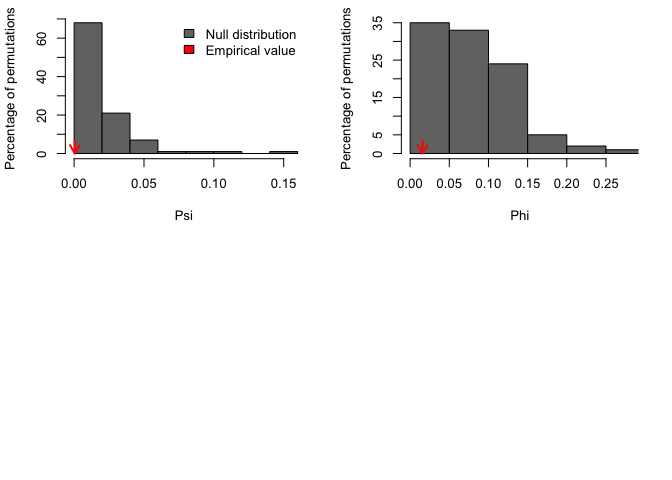
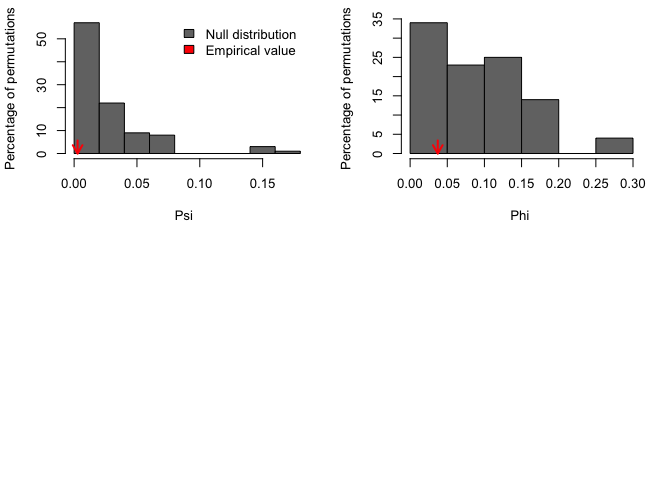
new commit

diff --git a/README.md b/README.md
@@ -9,7 +9,18 @@
 
 The goal of PCAtest is to evaluate the overall significance of a PCA, of
 each PC axis, and of the contributions of each observed variable to the
-significant axes based on permutation-based statistical tests.
+significant axes based on permutation-based statistical tests. PCAtest
+uses random permutations to build null distributions for several
+statistics of a PCAanalysis: Psi (Vieira 2012), Phi (Gleason and Staelin
+1975), the rank-of-roots (ter Braak 1988), the index of the loadings
+(Vieira 2012), and the correlations of the PC with the variables
+(Jackson 1991). Comparing these distributions with the observed values
+of the statistics, the function tests: (1) the hypothesis that there is
+more correlational structure among the observed variables than expected
+by random chance, (2) the statistical significance of each PC, and (3)
+the contribution of each observed variable to each significant PC. The
+function also calculates the sampling variance around mean observed
+statistics based on bootstrap replicates.
 
 ## Installation
 
@@ -36,8 +47,8 @@ result<-PCAtest(x, 100, 100, 0.05, corr=FALSE, plot=TRUE)
 #> 100 bootstrap replicates, 100 random permutations
 #> ========================================================
 #> 
-#> Empirical Psi = 5e-04, Max null Psi = 0.1572, Min null Psi = 0.0000, p-value = 0.85
-#> Empirical Phi = 0.0158, Max null Phi = 0.2804, Min null Phi = 1e-04, p-value = 0.85
+#> Empirical Psi = 0.0028, Max null Psi = 0.1748, Min null Psi = 0.0000, p-value = 0.7
+#> Empirical Phi = 0.0372, Max null Phi = 0.2956, Min null Phi = 9e-04, p-value = 0.7
 #> 
 #> PCA is not significant!
 ```
@@ -56,11 +67,11 @@ PCAout<-PCAtest(x, 100, 100, 0.05, corr=FALSE, plot=TRUE)
 #> 100 bootstrap replicates, 100 random permutations
 #> ========================================================
 #> 
-#> Empirical Psi = 2.0000, Max null Psi = 0.1617, Min null Psi = 0.0000, p-value = 0
-#> Empirical Phi = 1.0000, Max null Phi = 0.2843, Min null Phi = 3e-04, p-value = 0
+#> Empirical Psi = 2.0000, Max null Psi = 0.1442, Min null Psi = 0.0000, p-value = 0
+#> Empirical Phi = 1.0000, Max null Phi = 0.2685, Min null Phi = 2e-04, p-value = 0
 #> 
-#> Empirical eigenvalue #1 = 2, Max null eigenvalue = 1.2843, p-value = 0
-#> Empirical eigenvalue #2 = 0, Max null eigenvalue = 0.99966, p-value = 1
+#> Empirical eigenvalue #1 = 2, Max null eigenvalue = 1.26854, p-value = 0
+#> Empirical eigenvalue #2 = 0, Max null eigenvalue = 0.99981, p-value = 1
 #> 
 #> PC 1 is significant and accounts for 100% (95%-CI:100-100) of the total variation
 #> 
